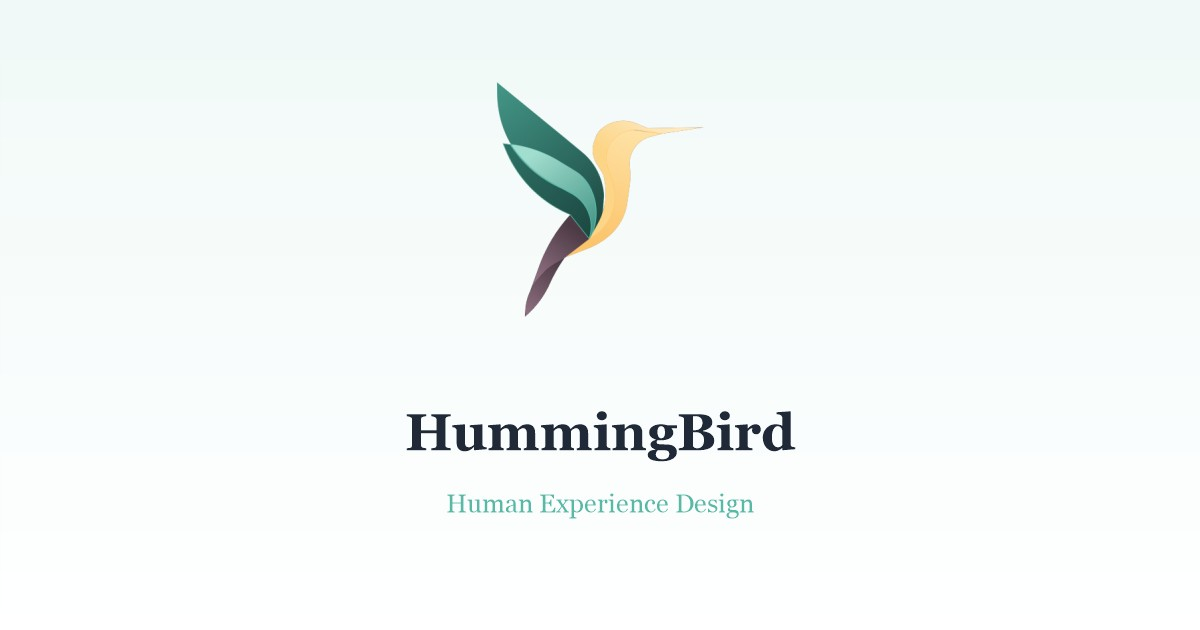
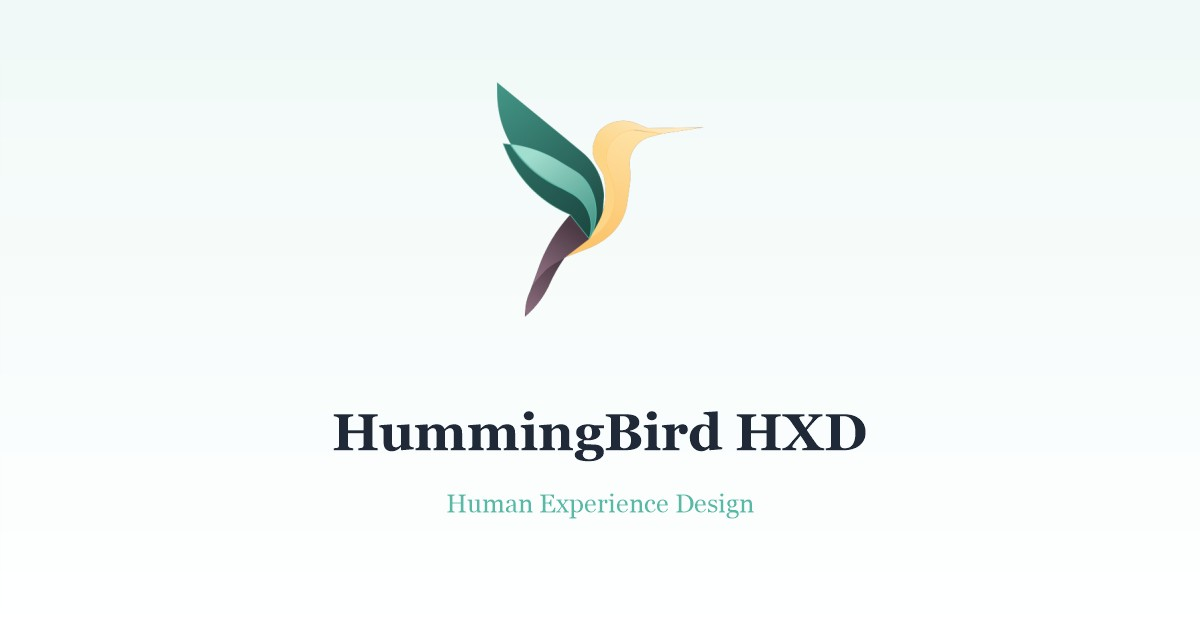
Rebrand SEO metadata to HummingBird HXD

Changed region(s): [[0.2775, 0.6333, 0.74, 0.7238]]

diff --git a/src/lib/seo.ts b/src/lib/seo.ts
@@ -28,7 +28,7 @@ export interface PageSEOConfig {
 
 // Default SEO configuration
 export const defaultSEO: SEOData = {
-  title: "HummingBird | Human Experience Design",
+  title: "HummingBird HXD | Human Experience Design",
   description: "HummingBird specialises in human experience design, creating user-centred solutions that enhance customer engagement and drive business growth through empathetic design thinking.",
   keywords: "human experience design, user experience design, UX design, human-centered design, design thinking, customer experience design, user-centered design, experience design agency, interaction design, service design, empathy-driven design, inclusive design, digital experience design",
   ogType: "website",
@@ -36,7 +36,7 @@ export const defaultSEO: SEOData = {
   structuredData: {
     "@context": "https://schema.org",
     "@type": "Organization",
-    "name": "HummingBird Human Experience Design",
+    "name": "HummingBird HXD",
     "description": "HummingBird specialises in human experience design, creating user-centred solutions that enhance customer engagement and drive business growth through empathetic design thinking",
     "url": "https://hummingbirdhxd.com",
     "logo": "https://hummingbirdhxd.com/assets/logo-sl.svg",
@@ -91,14 +91,14 @@ export const generatePageSEO = (config: PageSEOConfig): SEOData => {
 // Page-specific SEO configurations
 export const pageSEOConfigs = {
   home: {
-    title: "HummingBird | Human Experience Design",
+    title: "HummingBird HXD | Human Experience Design",
     description: "HummingBird specialises in human experience design, creating user-centred solutions that enhance customer engagement and drive business growth through empathetic design thinking.",
     keywords: "human experience design, user experience design, UX design, human-centered design, design thinking, customer experience design, user-centered design, experience design agency, interaction design, service design, empathy-driven design, inclusive design, digital experience design",
     path: "/",
     type: "website"
   },
   about: {
-    title: "About Us | HummingBird Human Experience Design",
+    title: "About Us | HummingBird HXD",
     description: "Meet the passionate team behind HummingBird. We're human experience designers, thinkers, and problem-solvers who believe empathetic design has the power to transform how people feel and engage.",
     keywords: "about hummingbird, human experience design team, UX design experts, design agency team, human-centered design, design thinking experts, user experience specialists",
     path: "/about",
@@ -119,21 +119,21 @@ export const pageSEOConfigs = {
     type: "website"
   },
   caseStudy: (title: string, description: string, slug: string) => ({
-    title: `${title} | Case Study | HummingBird`,
+    title: `${title} | Case Study | HummingBird HXD`,
     description: description,
     keywords: "case study, human experience design project, UX design in action, design thinking process, user experience results, design case study",
     path: `/case-study/${slug}`,
     type: "article"
   }),
   blog: (title: string, description: string, slug: string) => ({
-    title: `${title} | HummingBird Blog`,
+    title: `${title} | HummingBird HXD Blog`,
     description: description,
     keywords: "human experience design blog, UX design insights, design thinking tips, user experience, business growth, design strategy",
     path: `/blog/${slug}`,
     type: "article"
   }),
   articles: {
-    title: "Articles & Insights | HummingBird Human Experience Design",
+    title: "Articles & Insights | HummingBird HXD",
     description: "Explore our latest insights on human experience design, UX strategy, and design thinking. Expert tips and case studies to help your business grow through better user experiences.",
     keywords: "human experience design articles, UX design blog, design thinking insights, user experience strategy tips, business growth through design",
     path: "/articles",
@@ -148,12 +148,12 @@ export const generateStructuredData = {
   website: () => ({
     "@context": "https://schema.org",
     "@type": "WebSite",
-    "name": "HummingBird Human Experience Design",
+    "name": "HummingBird HXD",
     "url": "https://hummingbirdhxd.com",
     "description": "HummingBird specialises in human experience design, creating user-centred solutions that enhance customer engagement and drive business growth through empathetic design thinking",
     "publisher": {
       "@type": "Organization",
-      "name": "HummingBird Human Experience Design"
+      "name": "HummingBird HXD"
     }
   }),
   
@@ -175,7 +175,7 @@ export const generateStructuredData = {
     "description": service.description,
     "provider": {
       "@type": "Organization",
-      "name": "HummingBird Human Experience Design"
+      "name": "HummingBird HXD"
     },
     "offers": {
       "@type": "Offer",
@@ -191,11 +191,11 @@ export const generateStructuredData = {
     "description": article.description,
     "author": {
       "@type": "Organization",
-      "name": "HummingBird Human Experience Design"
+      "name": "HummingBird HXD"
     },
     "publisher": {
       "@type": "Organization",
-      "name": "HummingBird Human Experience Design",
+      "name": "HummingBird HXD",
       "logo": {
         "@type": "ImageObject",
         "url": "https://hummingbirdhxd.com/assets/logo-sl.svg"

diff --git a/src/hooks/useSEO.ts b/src/hooks/useSEO.ts
@@ -32,24 +32,24 @@ export const useSEO = (customConfig?: Partial<PageSEOConfig>): SEOData => {
         const slug = location.pathname.split('/').pop() || '';
         const titles: Record<string, { t: string; d: string }> = {
           'web-design': {
-            t: 'Web Design | HummingBird',
+            t: 'Web Design | HummingBird HXD',
             d: 'Custom, mobile-ready websites built around your brand and your customers.',
           },
           'productivity-services': {
-            t: 'Productivity Services | HummingBird',
+            t: 'Productivity Services | HummingBird HXD',
             d: 'Smarter ways of working, shaped around your customers and your goals.',
           },
           'digital-integration': {
-            t: 'Digital Integration | HummingBird',
+            t: 'Digital Integration | HummingBird HXD',
             d: 'Simple tools and smooth systems that take the friction out of how you work.',
           },
           'ai-integration': {
-            t: 'AI Integration | HummingBird',
+            t: 'AI Integration | HummingBird HXD',
             d: 'Practical, no-hype AI that saves you time and helps you do more with less.',
           },
         };
         const meta = titles[slug] || {
-          t: 'Services | HummingBird',
+          t: 'Services | HummingBird HXD',
           d: 'Down-to-earth support to help your business work better and shine online.',
         };
         baseConfig = {
@@ -65,7 +65,7 @@ export const useSEO = (customConfig?: Partial<PageSEOConfig>): SEOData => {
         if (location.pathname.startsWith('/case-study/')) {
           const slug = location.pathname.split('/').pop();
           baseConfig = {
-            title: `Case Study | HummingBird Web Design`,
+            title: `Case Study | HummingBird HXD`,
             description: "Explore our latest web design case study showcasing colour psychology in action and measurable business results.",
             path: location.pathname,
             type: "article"
@@ -73,14 +73,14 @@ export const useSEO = (customConfig?: Partial<PageSEOConfig>): SEOData => {
         } else if (location.pathname.startsWith('/blog/')) {
           const slug = location.pathname.split('/').pop();
           baseConfig = {
-            title: `Blog Post | HummingBird Design Insights`,
+            title: `Blog Post | HummingBird HXD`,
             description: "Read our latest insights on web design, colour theory, and digital strategy to help your business grow.",
             path: location.pathname,
             type: "article"
           };
         } else {
           baseConfig = {
-            title: "HummingBird | Colour-Driven Web Design Agency",
+            title: "HummingBird HXD | Colour-Driven Web Design Agency",
             description: "Professional Wix website design agency specialising in colour theory and emotionally resonant web experiences.",
             path: location.pathname
           };
@@ -117,11 +117,11 @@ export const useCaseStudySEO = (caseStudy: any): SEOData => {
         "description": caseStudy.description,
         "author": {
           "@type": "Organization",
-          "name": "HummingBird Web Design Agency"
+          "name": "HummingBird HXD"
         },
         "publisher": {
           "@type": "Organization",
-          "name": "HummingBird Web Design Agency",
+          "name": "HummingBird HXD",
           "logo": {
             "@type": "ImageObject",
             "url": "https://hummingbirdhxd.com/assets/logo-sl.svg"
@@ -157,11 +157,11 @@ export const useBlogSEO = (blogPost: any): SEOData => {
         "description": blogPost.excerpt || blogPost.description,
         "author": {
           "@type": "Organization",
-          "name": "HummingBird Web Design Agency"
+          "name": "HummingBird HXD"
         },
         "publisher": {
           "@type": "Organization",
-          "name": "HummingBird Web Design Agency",
+          "name": "HummingBird HXD",
           "logo": {
             "@type": "ImageObject",
             "url": "https://hummingbirdhxd.com/assets/logo-sl.svg"

diff --git a/index.html b/index.html
@@ -4,21 +4,21 @@
   <head>
     <meta charset="UTF-8" />
     <meta name="viewport" content="width=device-width, initial-scale=1.0" />
-    <title>HummingBird | Human Experience Design</title>
+    <title>HummingBird HXD | Human Experience Design</title>
     <meta name="description" content="HummingBird specialises in human experience design, creating user-centred solutions that enhance customer engagement and drive business growth through empathetic design thinking." />
     <meta name="keywords" content="human experience design, user experience design, UX design, human-centered design, design thinking, customer experience design, user-centered design, experience design agency, interaction design, service design, empathy-driven design, inclusive design, digital experience design" />
-    <meta name="author" content="HummingBird Human Experience Design Agency" />
+    <meta name="author" content="HummingBird HXD" />
 
-    <meta property="og:title" content="HummingBird | Human Experience Design" />
+    <meta property="og:title" content="HummingBird HXD | Human Experience Design" />
     <meta property="og:description" content="Creating user-centred solutions that enhance customer engagement and drive business growth through empathetic design thinking." />
     <meta property="og:type" content="website" />
     <meta property="og:url" content="https://hummingbirdhxd.com" />
     <meta property="og:image" content="https://hummingbirdhxd.com/assets/og-default.jpg" />
-    <meta property="og:site_name" content="HummingBird Human Experience Design" />
+    <meta property="og:site_name" content="HummingBird HXD" />
 
     <!-- Twitter Card Meta Tags -->
     <meta name="twitter:card" content="summary_large_image" />
-    <meta name="twitter:title" content="HummingBird | Human Experience Design" />
+    <meta name="twitter:title" content="HummingBird HXD | Human Experience Design" />
     <meta name="twitter:description" content="Creating user-centred solutions that enhance customer engagement and drive business growth through empathetic design thinking." />
     <meta name="twitter:image" content="https://hummingbirdhxd.com/assets/og-default.jpg" />
 

diff --git a/email-templates/auto-reply-template.html b/email-templates/auto-reply-template.html
@@ -1,4 +1,4 @@
-<!DOCTYPE html>
+<!DOCTYPE html>
 <html lang="en">
 <head>
     <meta charset="UTF-8">
@@ -133,8 +133,8 @@
     <div class="email-container">
         <!-- Header -->
         <div class="header">
-            <h1>🎨 Thank You!</h1>
-            <p>HummingBird Human Experience Design</p>
+            <h1>ðŸŽ¨ Thank You!</h1>
+            <p>HummingBird HXD</p>
         </div>
 
         <!-- Content -->
@@ -148,7 +148,7 @@
             </div>
 
             <div class="highlight-box">
-                <h3>📋 What We Received</h3>
+                <h3>ðŸ“‹ What We Received</h3>
                 <p>
                     <strong>Service Interest:</strong> {{service}}<br>
                     <strong>Company:</strong> {{company}}<br>
@@ -157,7 +157,7 @@
             </div>
 
             <div class="next-steps">
-                <h3>🚀 What Happens Next?</h3>
+                <h3>ðŸš€ What Happens Next?</h3>
                 <ul>
                     <li><strong>Within 24 hours:</strong> You'll receive a detailed response from our team</li>
                     <li><strong>Initial consultation:</strong> We'll schedule a free 30-minute discovery call</li>
@@ -167,7 +167,7 @@
             </div>
 
             <div class="contact-info">
-                <h3>📞 Need Immediate Assistance?</h3>
+                <h3>ðŸ“ž Need Immediate Assistance?</h3>
                 <div class="contact-item">
                     <strong>Phone:</strong> +27 (72) 608-5749
                 </div>
@@ -192,7 +192,7 @@
 
         <!-- Footer -->
         <div class="footer">
-            <h3>HummingBird Human Experience Design</h3>
+            <h3>HummingBird HXD</h3>
             <p>
                 Creating user-centred solutions that enhance customer engagement and drive business growth through empathetic design thinking.
             </p>

diff --git a/email-templates/contact-form-template.html b/email-templates/contact-form-template.html
@@ -1,4 +1,4 @@
-<!DOCTYPE html>
+<!DOCTYPE html>
 <html lang="en">
 <head>
     <meta charset="UTF-8">
@@ -113,8 +113,8 @@
     <div class="email-container">
         <!-- Header -->
         <div class="header">
-            <h1>🎨 New Contact Form Submission</h1>
-            <p>HummingBird Human Experience Design</p>
+            <h1>ðŸŽ¨ New Contact Form Submission</h1>
+            <p>HummingBird HXD</p>
         </div>
 
         <!-- Content -->
@@ -172,7 +172,7 @@
             <!-- Quick Actions -->
             <div style="text-align: center; margin-top: 30px;">
                 <a href="mailto:{{from_email}}?subject=Re: Your HummingBird Inquiry&body=Hi {{from_name}},%0D%0A%0D%0AThank you for reaching out to HummingBird!%0D%0A%0D%0A" class="cta-button">
-                    📧 Reply to Client
+                    ðŸ“§ Reply to Client
                 </a>
             </div>
         </div>
@@ -180,7 +180,7 @@
         <!-- Footer -->
         <div class="footer">
             <p>
-                <strong>HummingBird Human Experience Design</strong><br>
+                <strong>HummingBird HXD</strong><br>
                 Creating user-centred solutions that enhance customer engagement<br>
                 <a href="https://hummingbirdhxd.com" style="color: #4ade80;">hummingbirdhxd.com</a>
             </p>

diff --git a/src/components/SEO.tsx b/src/components/SEO.tsx
@@ -25,7 +25,7 @@ export const SEO: React.FC<SEOProps> = ({ seoData }) => {
       {seoData.ogImage && (
         <meta property="og:image" content={seoData.ogImage} />
       )}
-      <meta property="og:site_name" content="HummingBird Web Design Agency" />
+      <meta property="og:site_name" content="HummingBird HXD" />
 
       {/* Twitter Card Meta Tags */}
       <meta
@@ -46,7 +46,7 @@ export const SEO: React.FC<SEOProps> = ({ seoData }) => {
 
       {/* Additional Meta Tags */}
       <meta name="robots" content="index, follow" />
-      <meta name="author" content="HummingBird Web Design Agency" />
+      <meta name="author" content="HummingBird HXD" />
       <meta name="viewport" content="width=device-width, initial-scale=1.0" />
 
       {/* Structured Data */}
